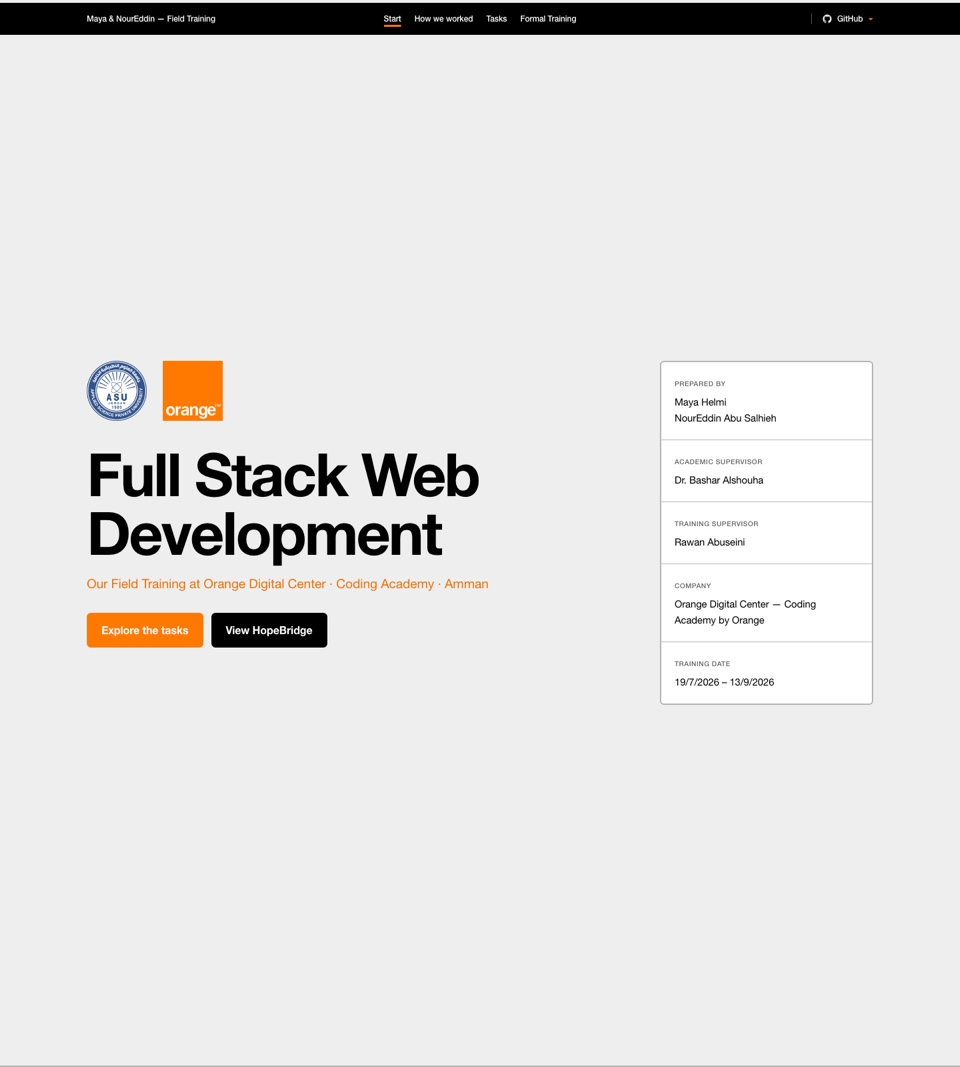
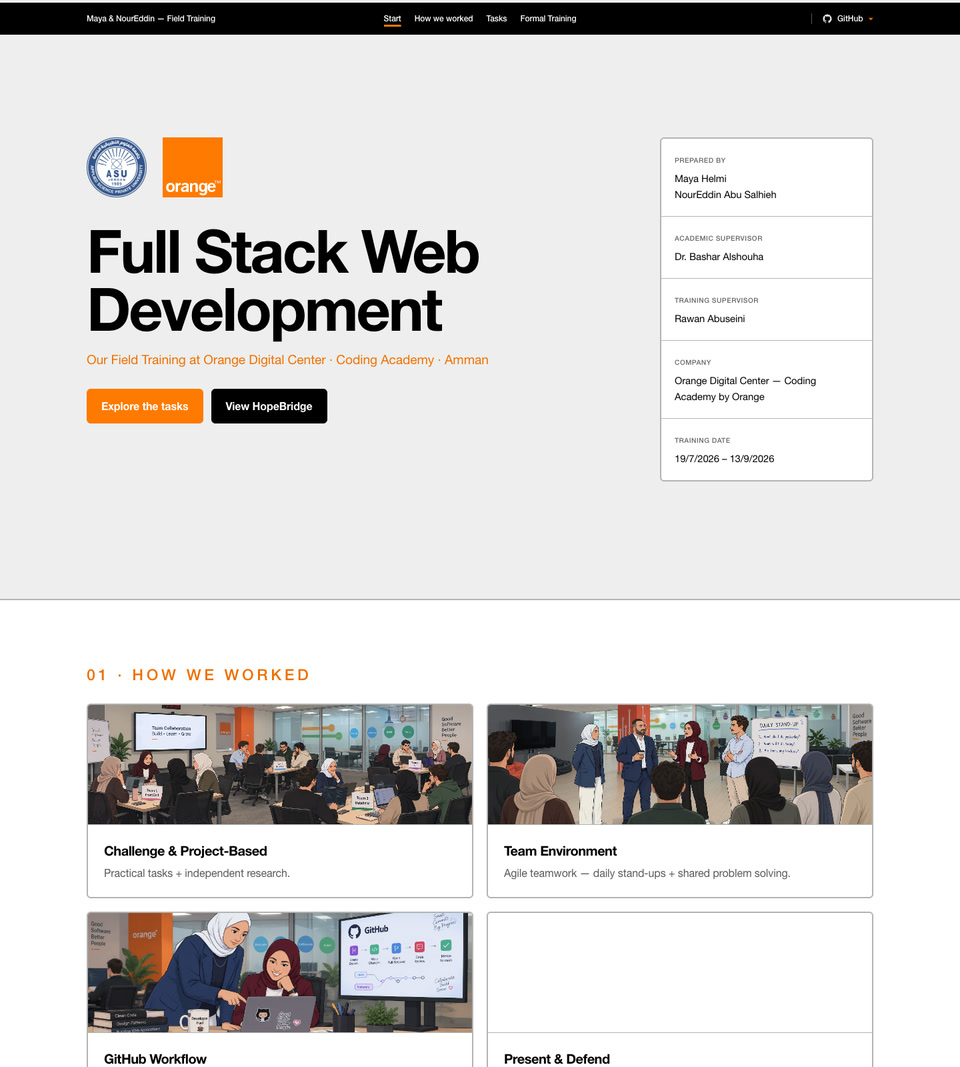
Refresh Orange training project screenshot

diff --git a/projects.html b/projects.html
@@ -293,7 +293,7 @@
           <article class="project-card flip-card" tabindex="0">
             <div class="flip-inner">
             <div class="flip-face flip-front card-shell">
-              <div class="project-shot"><img src="images/projects/eight-weeks-at-orange-front.jpg?v=20261008single" width="960" height="1067" alt="Eight Weeks at Orange presentation site hero" loading="lazy"></div>
+              <div class="project-shot"><img src="images/projects/eight-weeks-at-orange-front.jpg?v=20261008current" width="960" height="1067" alt="Eight Weeks at Orange presentation site hero and How We Worked section" loading="lazy"></div>
               <div class="project-head">
                 <h3 class="project-title">Eight Weeks at Orange</h3>
                 <div class="project-badges">
